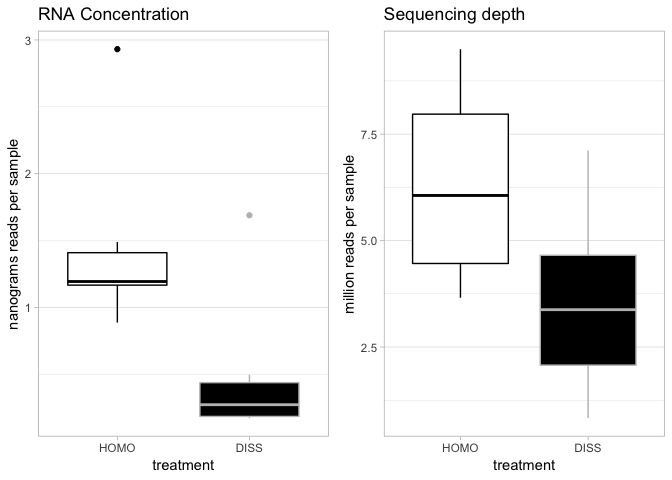
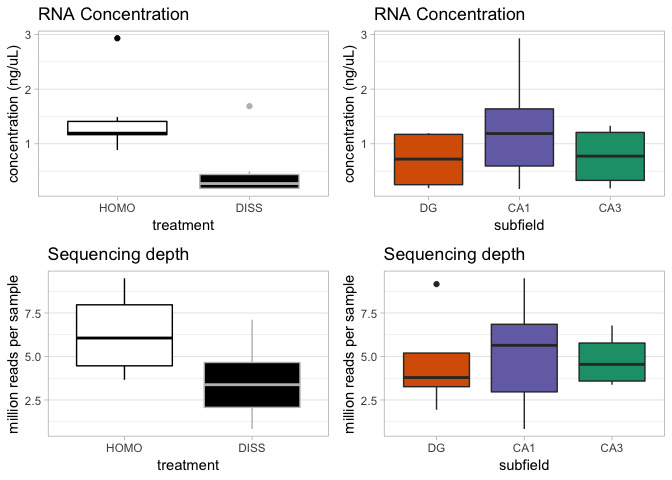
stats for read counts

diff --git a/scripts/06_readcounts.md b/scripts/06_readcounts.md
@@ -1,4 +1,16 @@
-    library(ggplot2)
+    library(tidyverse)
+
+    ## ── Attaching packages ──────────────────────────── tidyverse 1.2.1 ──
+
+    ## ✔ ggplot2 3.0.0     ✔ purrr   0.2.5
+    ## ✔ tibble  1.4.2     ✔ dplyr   0.7.6
+    ## ✔ tidyr   0.8.2     ✔ stringr 1.3.1
+    ## ✔ readr   1.1.1     ✔ forcats 0.3.0
+
+    ## ── Conflicts ─────────────────────────────── tidyverse_conflicts() ──
+    ## ✖ dplyr::filter() masks stats::filter()
+    ## ✖ dplyr::lag()    masks stats::lag()
+
     library(cowplot)
 
     ## 
@@ -21,47 +33,74 @@ RNA concentation in each sample
     rnaconcentration <- read.csv("../results/picogreen.csv")
     summary(rnaconcentration)
 
-    ##        sample    picograms      treatment
-    ##  100-CA1-1:1   Min.   : 173.0   DISS:7   
-    ##  100-CA1-2:1   1st Qu.: 299.8   HOMO:7   
-    ##  100-CA1-3:1   Median :1026.5            
-    ##  100-CA3-1:1   Mean   : 967.6            
-    ##  100-CA3-4:1   3rd Qu.:1296.0            
-    ##  100-DG-2 :1   Max.   :2931.0            
+    ##        sample    picograms      treatment subfield
+    ##  100-CA1-1:1   Min.   : 173.0   DISS:7    CA1:6   
+    ##  100-CA1-2:1   1st Qu.: 299.8   HOMO:7    CA3:4   
+    ##  100-CA1-3:1   Median :1026.5             DG :4   
+    ##  100-CA3-1:1   Mean   : 967.6                     
+    ##  100-CA3-4:1   3rd Qu.:1296.0                     
+    ##  100-DG-2 :1   Max.   :2931.0                     
     ##  (Other)  :8
 
     # format data
     rnaconcentration$nanograms <- (rnaconcentration$picograms)/1000 
-
-
     rnaconcentration$treatment <- factor(rnaconcentration$treatment, levels = c("HOMO", "DISS"))
+    rnaconcentration$subfield <- factor(rnaconcentration$subfield, levels = c("DG", "CA1", "CA3"))
 
 
-    a <- ggplot(rnaconcentration, aes(x = treatment, y = nanograms, 
-                      fill = treatment, color = treatment)) + 
+    a <- ggplot(rnaconcentration, 
+                aes(x = treatment, y = nanograms, 
+                    fill = treatment, color = treatment)) + 
       geom_boxplot() +
       scale_fill_manual(values = c("white", "black")) +
       scale_color_manual(values = c("black", "grey")) +
       theme_cowplot(font_size = 12, line_size = 0.25) +
-      labs(y = "nanograms reads per sample",
+      labs(y = "concentration (ng/uL)",
            title = "RNA Concentration") +
       theme_light() +
         theme(legend.position = "none",
               panel.grid.major.x = element_blank()) 
 
-    t.test(rnaconcentration$nanograms~rnaconcentration$treatment)
+    b <- ggplot(rnaconcentration, aes(x = subfield, y = nanograms, 
+                      fill = subfield)) + 
+      geom_boxplot() +
+      scale_fill_manual(values = c("#d95f02", "#7570b3", "#1b9e77" )) +
+      theme_cowplot(font_size = 12, line_size = 0.25) +
+      labs(y = "concentration (ng/uL)",
+           title = "RNA Concentration") +
+      theme_light() +
+        theme(legend.position = "none",
+              panel.grid.major.x = element_blank())
+
+    t.test(rnaconcentration$nanograms~rnaconcentration$treatment, alternative="greater")
 
     ## 
     ##  Welch Two Sample t-test
     ## 
     ## data:  rnaconcentration$nanograms by rnaconcentration$treatment
-    ## t = 2.9491, df = 11.475, p-value = 0.0127
-    ## alternative hypothesis: true difference in means is not equal to 0
+    ## t = 2.9491, df = 11.475, p-value = 0.006348
+    ## alternative hypothesis: true difference in means is greater than 0
     ## 95 percent confidence interval:
-    ##  0.2494507 1.6885493
+    ##  0.3811469       Inf
     ## sample estimates:
     ## mean in group HOMO mean in group DISS 
     ##          1.4521429          0.4831429
+
+    homo <- rnaconcentration %>% filter(treatment == "HOMO") 
+    sd(homo$nanograms)
+
+    ## [1] 0.6772413
+
+    diss <- rnaconcentration %>% filter(treatment == "DISS") 
+    sd(diss$nanograms)
+
+    ## [1] 0.5450442
+
+    summary(aov(rnaconcentration$nanograms~rnaconcentration$subfield))
+
+    ##                           Df Sum Sq Mean Sq F value Pr(>F)
+    ## rnaconcentration$subfield  2  1.015  0.5077   0.821  0.465
+    ## Residuals                 11  6.805  0.6187
 
 Counts per Sample
 -----------------
@@ -81,20 +120,21 @@ A table of sample and read counts was save in
     reads <- read.table("../results/readcounts.txt", header = T)
     summary(reads)
 
-    ##         name       counts        treatment
-    ##  100_CA1_1:1   Min.   : 831222   DISS:7   
-    ##  100_CA1_2:1   1st Qu.:3447633   HOMO:7   
-    ##  100_CA1_3:1   Median :4547688            
-    ##  100_CA3_1:1   Mean   :4918879            
-    ##  100_CA3_4:1   3rd Qu.:6600756            
-    ##  100_DG_2 :1   Max.   :9496400            
+    ##         name       counts        treatment subfield
+    ##  100_CA1_1:1   Min.   : 831222   DISS:7    CA1:6   
+    ##  100_CA1_2:1   1st Qu.:3447633   HOMO:7    CA3:4   
+    ##  100_CA1_3:1   Median :4547688             DG :4   
+    ##  100_CA3_1:1   Mean   :4918879                     
+    ##  100_CA3_4:1   3rd Qu.:6600756                     
+    ##  100_DG_2 :1   Max.   :9496400                     
     ##  (Other)  :8
 
     # format data
     reads$millionreads <- (reads$counts)/1000000 # to show in millions
     reads$treatment <- factor(reads$treatment, levels = c("HOMO", "DISS"))
+    reads$subfield <- factor(reads$subfield, levels = c("DG", "CA1", "CA3"))
 
-    # basic stats
+    # stats
     mean(reads$millionreads) 
 
     ## [1] 4.918879
@@ -103,7 +143,7 @@ A table of sample and read counts was save in
 
     ## [1] 2.606619
 
-    b <- ggplot(reads, aes(x = treatment, y = millionreads, 
+    c <- ggplot(reads, aes(x = treatment, y = millionreads, 
                       fill = treatment, color = treatment)) + 
       geom_boxplot() +
       scale_fill_manual(values = c("white", "black")) +
@@ -115,23 +155,51 @@ A table of sample and read counts was save in
         theme(legend.position = "none",
               panel.grid.major.x = element_blank()) 
 
-    t.test(reads$millionreads~reads$treatment)
+    d <- ggplot(reads, aes(x = subfield, y = millionreads, 
+                      fill = subfield)) + 
+      geom_boxplot() +
+      scale_fill_manual(values = c("#d95f02", "#7570b3", "#1b9e77" )) +
+      theme_cowplot(font_size = 12, line_size = 0.25) +
+      labs(y = "million reads per sample",
+           title = "Sequencing depth") +
+      theme_light() +
+        theme(legend.position = "none",
+              panel.grid.major.x = element_blank())
+
+
+    t.test(reads$millionreads~reads$treatment, alternative = "greater")
 
     ## 
     ##  Welch Two Sample t-test
     ## 
     ## data:  reads$millionreads by reads$treatment
-    ## t = 2.2738, df = 11.909, p-value = 0.0423
-    ## alternative hypothesis: true difference in means is not equal to 0
+    ## t = 2.2738, df = 11.909, p-value = 0.02115
+    ## alternative hypothesis: true difference in means is greater than 0
     ## 95 percent confidence interval:
-    ##  0.1129073 5.4003561
+    ##  0.594498      Inf
     ## sample estimates:
     ## mean in group HOMO mean in group DISS 
     ##           6.297195           3.540563
 
+    homo <- reads %>% filter(treatment == "HOMO") 
+    sd(homo$millionreads)
+
+    ## [1] 2.365091
+
+    diss <- reads %>% filter(treatment == "DISS") 
+    sd(diss$millionreads)
+
+    ## [1] 2.166776
+
+    summary(aov(reads$millionreads~reads$subfield))
+
+    ##                Df Sum Sq Mean Sq F value Pr(>F)
+    ## reads$subfield  2   0.63   0.315    0.04  0.961
+    ## Residuals      11  87.70   7.972
+
 On average, my samples yielded 4.9 +/- 2.6 million reads.
 
-    plot_grid(a,b)
+    plot_grid(a,b,c,d)
 
 ![](../figures/06_readcounts/RNA-1.png)
 
